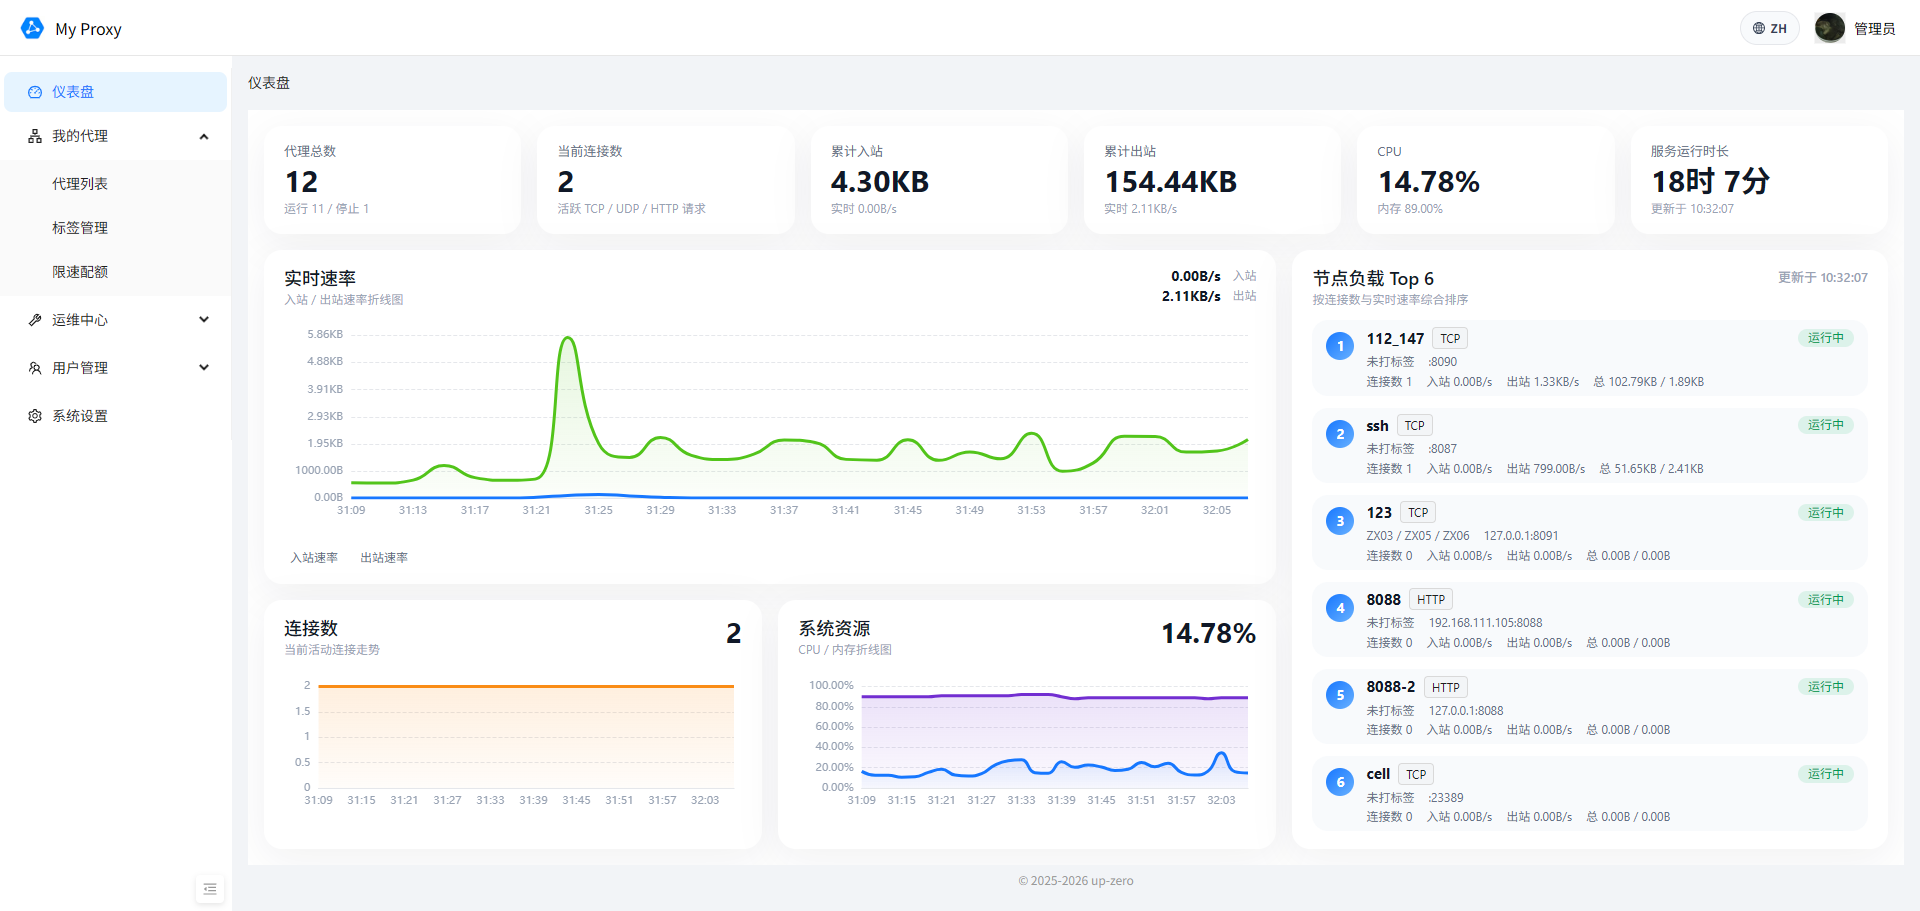
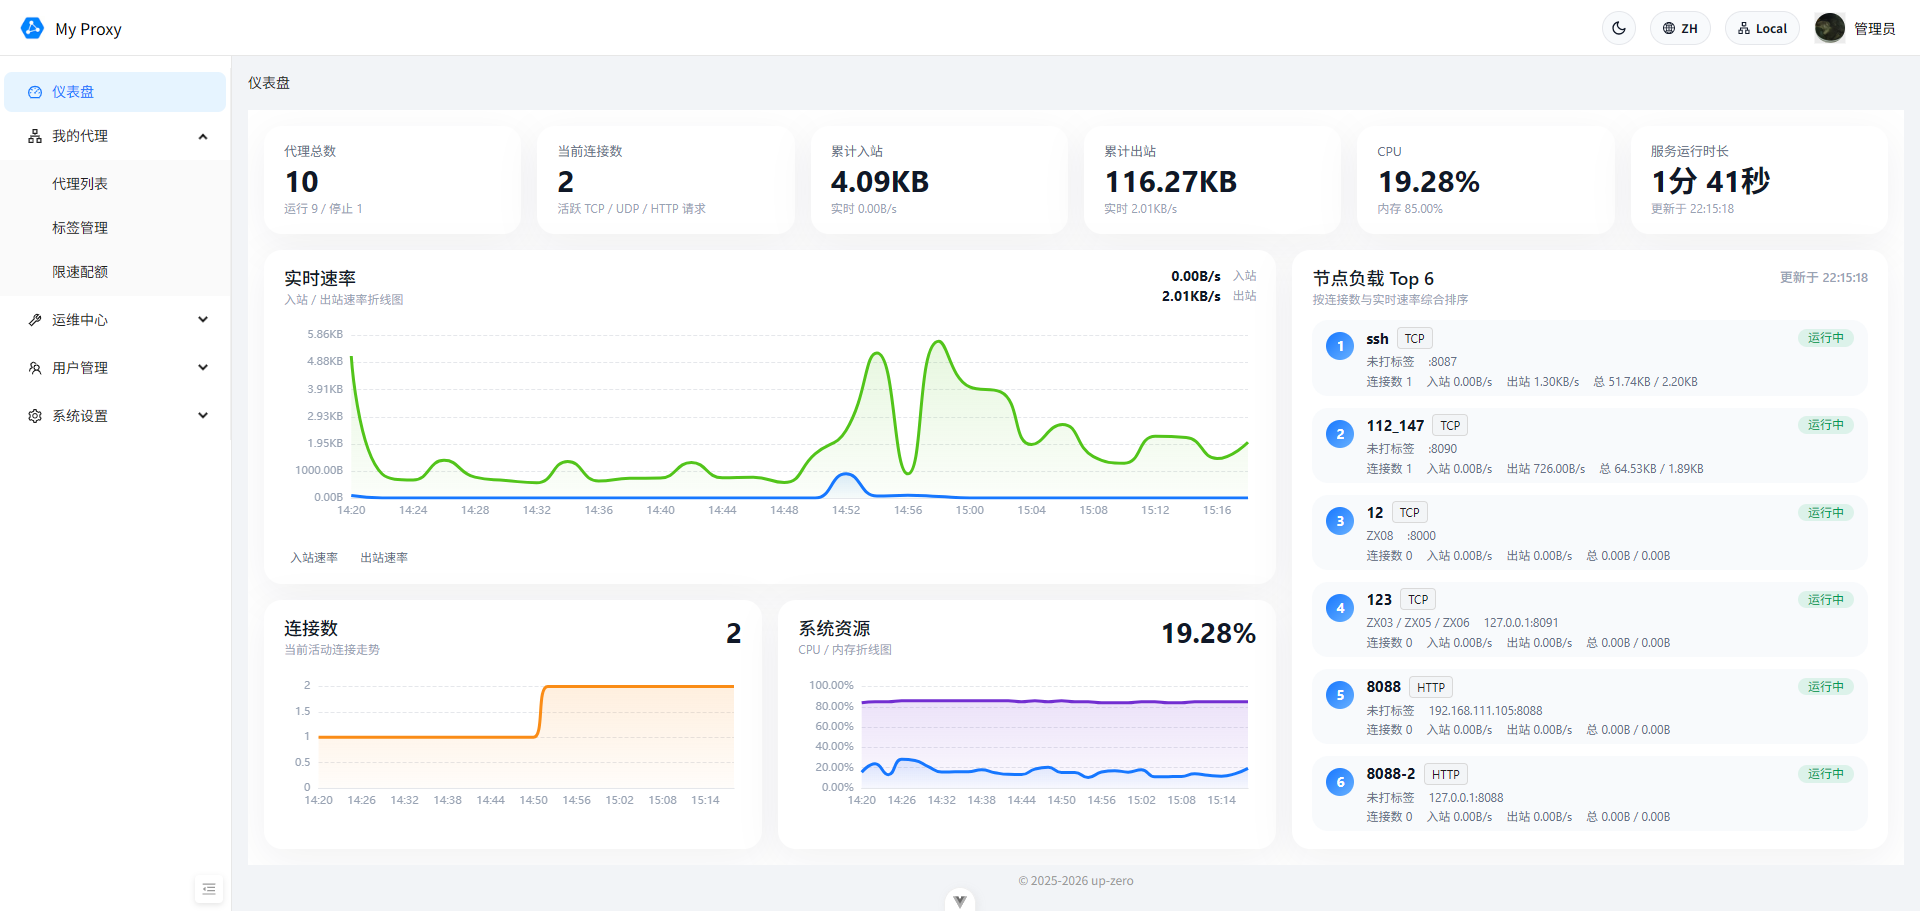
:bug: handle child node authentication errors and update error messages

diff --git a/middleware/node_proxy.go b/middleware/node_proxy.go
@@ -2,6 +2,7 @@ package middleware
 
 import (
 	"bytes"
+	"encoding/json"
 	"io"
 	"net/http"
 	"strings"
@@ -148,6 +149,16 @@ func NodeProxy() gin.HandlerFunc {
 			return
 		}
 
+		// 子节点返回认证失败时，不转发 60400 到前端（避免触发前端退出登录），
+		// 替换为通用错误提示
+		if isAuthError(respBody) {
+			logger.Warn("[node-proxy] child node returned auth error, node secret key may be incorrect",
+				zap.String("node_id", nodeId))
+			util.ResponseMsg(c, util.CodeErr, util.LocalizeMessage(c, "node auth failed"))
+			c.Abort()
+			return
+		}
+
 		// 仅回写安全的响应头（Content-Type 等，跳过 CORS / 逐跳头）
 		for key, values := range resp.Header {
 			keyLower := strings.ToLower(key)
@@ -167,4 +178,15 @@ func NodeProxy() gin.HandlerFunc {
 		c.Data(resp.StatusCode, resp.Header.Get("Content-Type"), respBody)
 		c.Abort()
 	}
+}
+
+// isAuthError 检查响应体是否为子节点认证失败（避免 60400 触发前端退出登录）
+func isAuthError(body []byte) bool {
+	var resp struct {
+		Code int `json:"code"`
+	}
+	if err := json.Unmarshal(body, &resp); err != nil {
+		return false
+	}
+	return resp.Code == util.CodeErrAuth
 }

diff --git a/util/i18n.go b/util/i18n.go
@@ -41,6 +41,7 @@ var localizedMessages = map[string]map[string]string{
 		"task is not running":        "当前任务未运行",
 		"API route not found":        "接口不存在",
 		"cannot delete local node":   "不能删除本地节点",
+		"node auth failed":           "子节点认证失败，请检查节点密钥配置",
 	},
 	LanguageEnUS: {
 		MsgOk:                        "Success",
@@ -61,6 +62,7 @@ var localizedMessages = map[string]map[string]string{
 		"task is not running":        "Task is not running",
 		"API route not found":        "API route not found",
 		"cannot delete local node":   "Cannot delete the local node",
+		"node auth failed":           "Child node authentication failed, please verify the node secret key",
 	},
 }
 

diff --git a/README.md b/README.md
@@ -21,7 +21,7 @@
    English | <a href="./README_zh.md">中文</a>
 </p>
 
-A LAN proxy tool that supports proxy forwarding for TCP, UDP, HTTP, SOCKS5, and other protocols, making it suitable for most network environments. It provides both CLI and WebUI configuration modes, greatly simplifying proxy setup.
+A LAN proxy tool that supports proxy forwarding for TCP, UDP, HTTP, SOCKS5, and other protocols, making it suitable for most network environments. It provides both CLI and WebUI configuration modes, greatly simplifying proxy setup. Supports multi-node management — control multiple my-proxy instances from a single dashboard.
 
 ## WebUI Mode
 

diff --git a/README_zh.md b/README_zh.md
@@ -21,7 +21,7 @@
    <a href="./README.md">English</a> | 中文
 </p>
 
-局域网代理工具，支持 TCP、UDP、HTTP、SOCKS5 等协议的代理转发，适用于绝大多数网络环境。提供了命令行、WebUI 两种配置代理的方法，极大地简化了代理配置的步骤。
+局域网代理工具，支持 TCP、UDP、HTTP、SOCKS5 等协议的代理转发，适用于绝大多数网络环境。提供了命令行、WebUI 两种配置代理的方法，极大地简化了代理配置的步骤。支持多节点管理，通过一个面板统一管控多个 my-proxy 实例。
 
 ## WebUI 模式
 